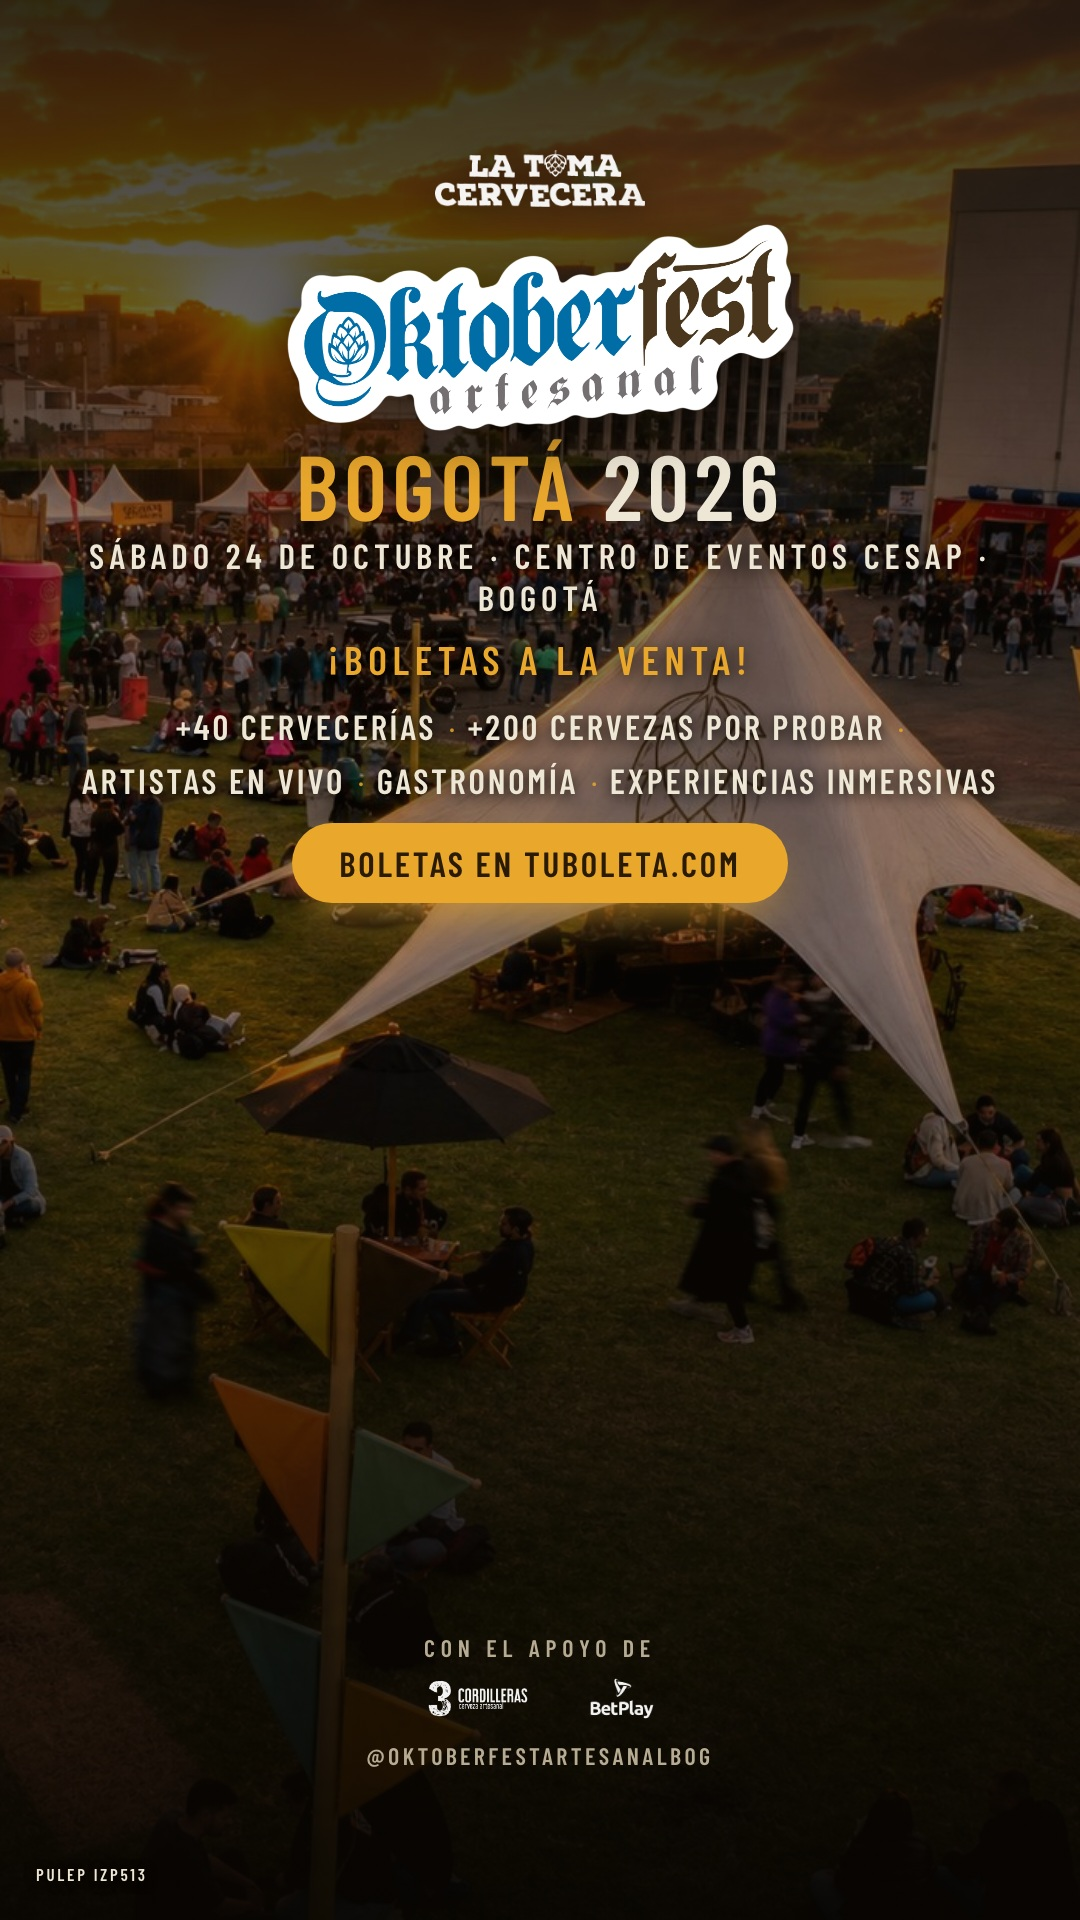
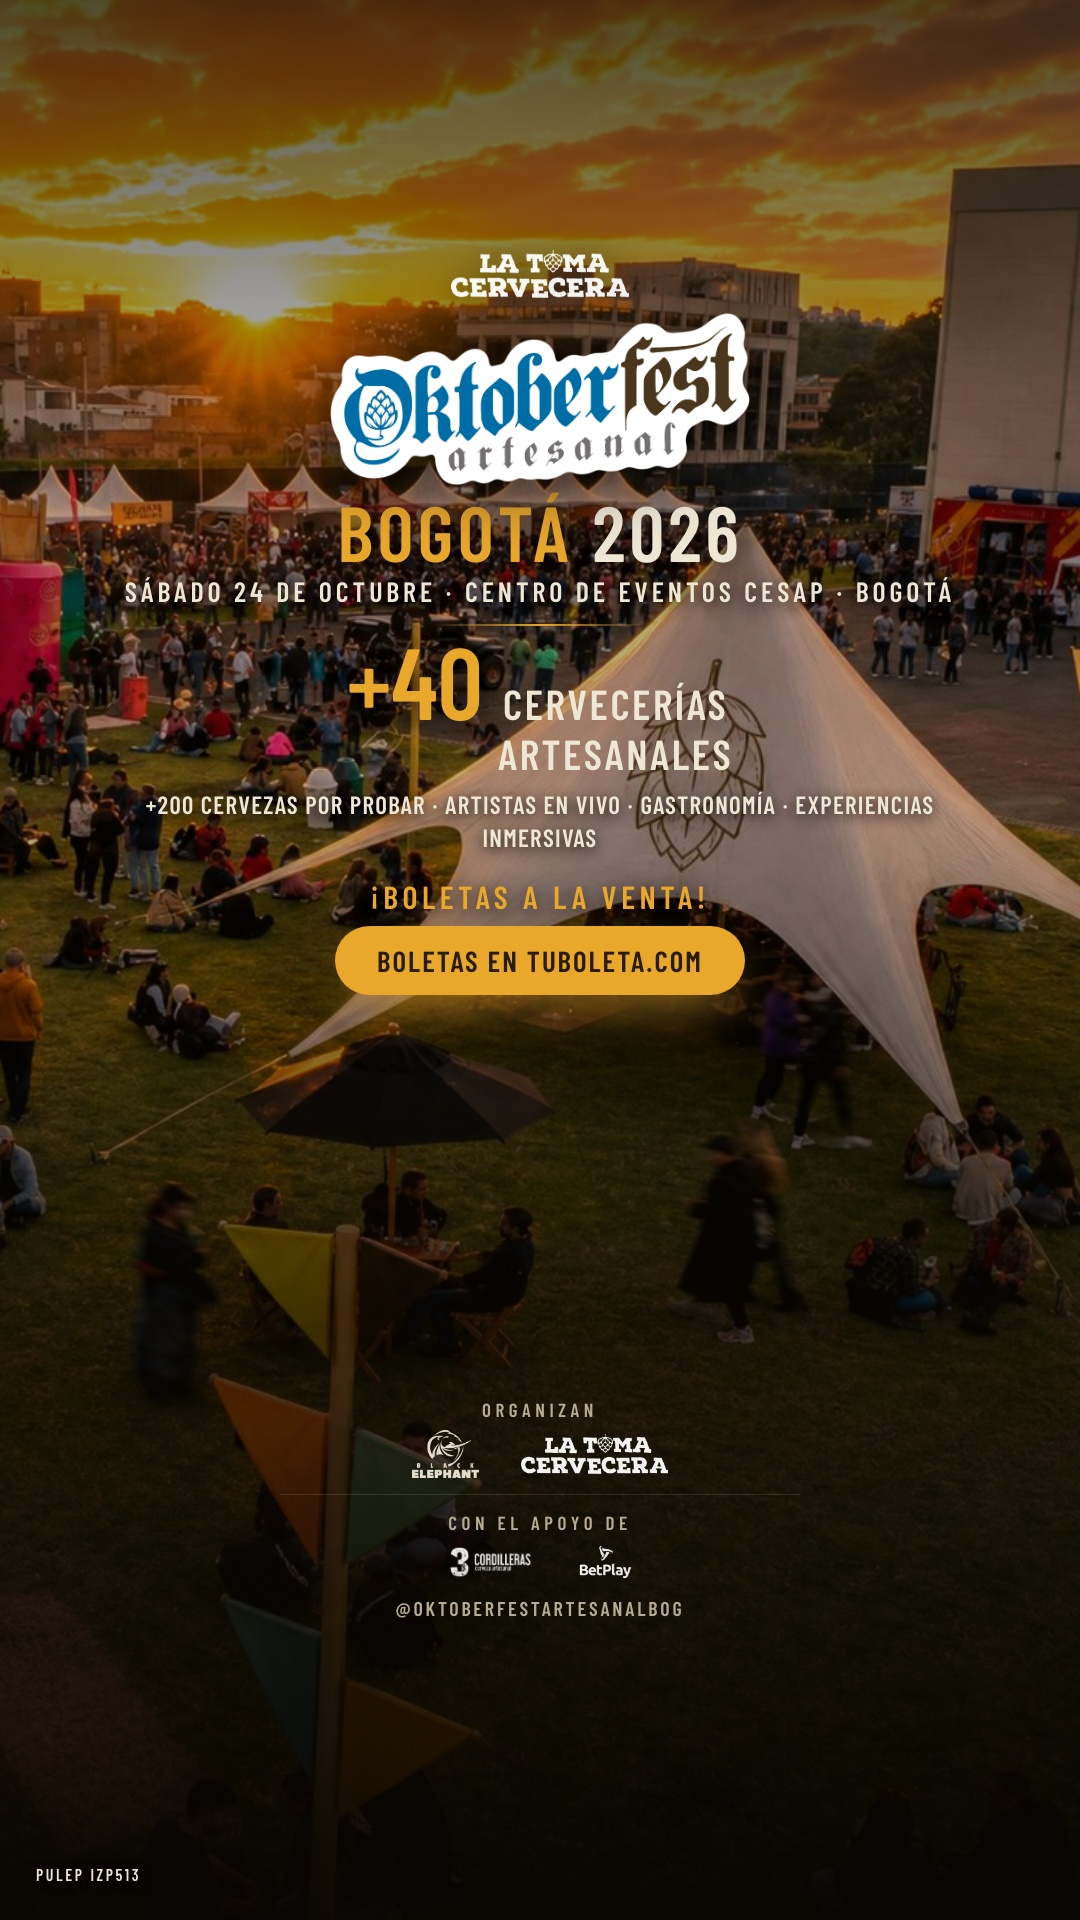
feat: flyers pro — historias con zonas seguras + postal imprimible (2400x3600, 300dpi) con QR de compra

diff --git a/piezas-bogota/build-flyer.py b/piezas-bogota/build-flyer.py
@@ -1,12 +1,13 @@
 #!/usr/bin/env python3
 # -*- coding: utf-8 -*-
 """
-Flyer general Oktoberfest Artesanal — Medellín y Bogotá, en post (1080×1350) e
-historia (1080×1920).
+Flyer general Oktoberfest Artesanal — Medellín y Bogotá · post (1080×1350) e
+historia (1080×1920). Rediseño profesional tras auditoría comercial/mercadeo:
 
-Medellín: line up + venta de boletas (La Tiquetera) + patrocinadores.
-Bogotá:   propuesta de valor + venta de boletas (Tuboleta) + patrocinadores.
-Todo sobre foto real del festival, paleta ocaso y el logo azul.
+  · Dato HERO de cervecerías (+70 Med / +40 Bog) como argumento de venta principal.
+  · Medellín sobre imagen de ATARDECER (hora dorada), no nocturna.
+  · Line up (Medellín) · CTA de boletas claro.
+  · Footer de credibilidad: ORGANIZAN (Black Elephant · La Toma) + patrocinadores.
 """
 import base64, pathlib, subprocess
 from PIL import Image
@@ -14,7 +15,6 @@ from PIL import Image
 ROOT = pathlib.Path(__file__).resolve().parent
 REPO_AS = ROOT / "_assets"
 WORK_AS = ROOT / "_assets"
-FOTOS = pathlib.Path("/Users/juandiegobeuthbernal/design-system/assets/events/oktoberfest-2026/fotos")
 OUT = ROOT / "renders" / "flyer"
 OUT.mkdir(parents=True, exist_ok=True)
 CHROME = "/Applications/Google Chrome.app/Contents/MacOS/Google Chrome"
@@ -27,104 +27,130 @@ def du(p, m):
 
 OKT = du(WORK_AS / "okt-logo-hires.png", "image/png")
 LATOMA = du(WORK_AS / "latoma-blanco-hires.png", "image/png")
+BE = du(WORK_AS / "black-elephant-crema.png", "image/png")
 SP = {n: du(WORK_AS / f"spon-{n}.png", "image/png") for n in ("3cordilleras", "comfenalco", "betplay")}
+QR = {c: du(WORK_AS / f"qr-{c}.png", "image/png") for c in ("medellin", "bogota")}
 
-MED_FEATS = ["+70 Cervecerías", "+350 Cervezas por probar", "4 Escenarios",
-             "Gastronomía", "Artistas en vivo", "Atracciones del parque"]
-BOG_FEATS = ["+40 Cervecerías", "+200 Cervezas por probar", "Artistas en vivo",
-             "Gastronomía", "Experiencias inmersivas"]
 LINEUP = ["Kraken", "Tributo a Caifanes · The Mills · Bajo Tierra",
           "Tributo a Molotov · Nepentes · Manuel Urrego",
           "Terlete · DJ Tobby · + más por confirmar"]
 
 CITIES = {
     "medellin": dict(city="Medellín", date="Sábado 26 de septiembre", place="Parque Norte · Medellín",
-                     platform="latiquetera.com", foto="escenario/F1-231_Oktober-307.jpg", objpos="center 55%",
-                     lineup=True, sponsors=["3cordilleras", "comfenalco", "betplay"], pulep=""),
+                     platform="latiquetera.com", bg=WORK_AS / "medellin-atardecer.jpg", objpos="center 40%",
+                     cerv="+70", sub="+350 cervezas por probar · 4 escenarios · artistas en vivo · gastronomía · atracciones del parque",
+                     lineup=True, sponsors=["3cordilleras", "comfenalco", "betplay"], handle="@oktoberfestartesanal", pulep=""),
     "bogota": dict(city="Bogotá", date="Sábado 24 de octubre", place="Centro de Eventos CESAP · Bogotá",
-                   platform="tuboleta.com", foto=None, objpos="60% center",
-                   lineup=False, sponsors=["3cordilleras", "betplay"], pulep="IZP513"),
+                   platform="tuboleta.com", bg=REPO_AS / "hero-sunset.jpg", objpos="60% center",
+                   cerv="+40", sub="+200 cervezas por probar · artistas en vivo · gastronomía · experiencias inmersivas",
+                   lineup=False, sponsors=["3cordilleras", "betplay"], handle="@oktoberfestartesanalbog", pulep="IZP513"),
 }
-FORMATS = [("post", 1080, 1350), ("historia", 1080, 1920)]
+FORMATS = [("post", 1080, 1350), ("historia", 1080, 1920), ("postal", 1200, 1800)]
 
 
-def page(cfg, fmt, w, h):
+def page(key, cfg, fmt, w, h):
     story = fmt == "historia"
-    s = 1.18 if story else 1.0
-    pt = 150 if story else 66
-    pb = 150 if story else 66
-    gap = round(min(w, h) * 0.022)
-    hero = du(FOTOS / cfg["foto"], "image/jpeg") if cfg["foto"] else du(REPO_AS / "hero-sunset.jpg", "image/jpeg")
-    corner = round(min(w, h) * 0.033)
+    postal = fmt == "postal"
+    s = 1.05 if story else (1.16 if postal else 1.0)
+    # Historia: márgenes grandes arriba/abajo por las zonas seguras de Instagram.
+    pt = 250 if story else (96 if postal else 62)
+    pb = 300 if story else (88 if postal else 60)
+    g = round(min(w, h) * 0.02)
+    hero = du(cfg["bg"], "image/jpeg")
 
     if cfg["lineup"]:
-        head = f'<div class="ln-h">{LINEUP[0]}</div>' + "".join(
-            f'<div class="ln">{x}</div>' for x in LINEUP[1:])
-        middle = f'<div class="lineup"><div class="kick">Line Up</div>{head}</div>'
+        ln = f'<div class="ln-h">{LINEUP[0]}</div>' + "".join(f'<div class="ln">{x}</div>' for x in LINEUP[1:])
+        middle = f'<div class="lineup"><div class="kk">Line Up 2026</div>{ln}</div>'
     else:
-        feats = "<i>·</i>".join(f"<span>{x}</span>" for x in BOG_FEATS)
-        middle = f'<div class="feats">{feats}</div>'
+        middle = ""
 
     spons = "".join(f'<img class="sp" src="{SP[n]}">' for n in cfg["sponsors"])
     pulep = f'<div class="pulep">PULEP {cfg["pulep"]}</div>' if cfg["pulep"] else ""
 
-    return f"""<!doctype html><meta charset="utf-8">
-<title>Flyer {cfg['city']} · {fmt}</title>
+    if postal:
+        cta_inner = (f'<div class="qrbox"><img class="qr" src="{QR[key]}">'
+                     f'<div class="qrt">Escanea<br>y compra tus<br>boletas aquí</div></div>'
+                     f'<div class="qrsub">{cfg["platform"]}</div>')
+    else:
+        cta_inner = f'<div class="pill"><span>Boletas en {cfg["platform"]}</span></div>'
+
+    return f"""<!doctype html><meta charset="utf-8"><title>Flyer {cfg['city']} · {fmt}</title>
 <style>
 @import url('https://fonts.googleapis.com/css2?family=Playfair+Display:wght@800&display=swap');
 {FONTS_CSS}
 *{{margin:0;box-sizing:border-box}} html,body{{background:#000}}
 body{{font-family:'Barlow',sans-serif;-webkit-font-smoothing:antialiased}} img{{display:block}}
+.bc{{font-family:'Barlow Condensed',sans-serif}}
 .stage{{position:relative;width:{w}px;height:{h}px;overflow:hidden;background:#14110B;color:#EEE7D6}}
 .photo{{position:absolute;inset:0}}
-.photo img{{width:100%;height:100%;object-fit:cover;object-position:{cfg['objpos']};filter:saturate(1.08) contrast(1.03) brightness(1.06)}}
-.veil{{position:absolute;inset:0;background:linear-gradient(180deg,rgba(14,10,6,.86) 0%,rgba(14,10,6,.5) 26%,
-  rgba(14,10,6,.42) 50%,rgba(10,6,2,.78) 76%,rgba(8,5,2,.95) 100%)}}
-.in{{position:absolute;inset:0;z-index:3;display:flex;flex-direction:column;align-items:center;text-align:center;padding:{pt}px 70px {pb}px}}
-.sello{{height:{round(48*s)}px;opacity:.95;filter:drop-shadow(0 5px 18px rgba(0,0,0,.6))}}
-.brand{{width:{round(430*s)}px;max-width:88%;margin-top:{round(gap*.7)}px;filter:drop-shadow(0 12px 30px rgba(0,0,0,.5))}}
-.city{{margin-top:{round(gap*.5)}px;font-family:'Barlow Condensed';font-weight:700;font-size:{round(78*s)}px;line-height:.9;
-  letter-spacing:.06em;text-transform:uppercase;color:#E9A72C;text-shadow:0 6px 30px rgba(0,0,0,.6)}}
+.photo img{{width:100%;height:100%;object-fit:cover;object-position:{cfg['objpos']};filter:saturate(1.1) contrast(1.03) brightness(1.05)}}
+.veil{{position:absolute;inset:0;background:
+  linear-gradient(180deg,rgba(12,9,5,.72) 0%,rgba(12,9,5,.32) 20%,rgba(12,9,5,.28) 42%,rgba(10,6,2,.72) 70%,rgba(8,5,2,.96) 100%)}}
+.in{{position:absolute;inset:0;z-index:3;display:flex;flex-direction:column;align-items:center;text-align:center;padding:{pt}px 66px {pb}px}}
+.sello{{height:{round(46*s)}px;opacity:.95;filter:drop-shadow(0 5px 18px rgba(0,0,0,.6))}}
+.brand{{width:{round(400*s)}px;max-width:86%;margin-top:{round(g*.7)}px;filter:drop-shadow(0 12px 30px rgba(0,0,0,.5))}}
+.city{{margin-top:{round(g*.5)}px;font-family:'Barlow Condensed';font-weight:700;font-size:{round(74*s)}px;line-height:.9;
+  letter-spacing:.05em;text-transform:uppercase;color:#E9A72C;text-shadow:0 6px 30px rgba(0,0,0,.6)}}
 .city span{{color:#EEE7D6}}
-.dp{{margin-top:{round(gap*.35)}px;font-family:'Barlow Condensed';font-weight:600;font-size:{round(30*s)}px;letter-spacing:.14em;
+.dp{{margin-top:{round(g*.35)}px;font-family:'Barlow Condensed';font-weight:600;font-size:{round(27*s)}px;letter-spacing:.14em;
   text-transform:uppercase;color:#EEE7D6;text-shadow:0 3px 16px rgba(0,0,0,.9)}}
-.kickv{{margin-top:{round(gap*.7)}px;font-family:'Barlow Condensed';font-weight:700;font-size:{round(34*s)}px;letter-spacing:.14em;
-  text-transform:uppercase;color:#E9A72C;text-shadow:0 3px 18px rgba(0,0,0,.85)}}
-.mid{{display:flex;flex-direction:column;align-items:center;margin:{round(gap*.9)}px 0}}
-.lineup{{display:flex;flex-direction:column;align-items:center}}
-.kick{{font-family:'Barlow Condensed';font-weight:600;font-size:{round(22*s)}px;letter-spacing:.3em;text-transform:uppercase;color:#E9A72C;margin-bottom:{round(gap*.4)}px}}
-.ln-h{{font-family:'Playfair Display',serif;font-weight:800;font-size:{round(70*s)}px;line-height:.95;text-transform:uppercase;color:#EEE7D6;text-shadow:0 5px 24px rgba(0,0,0,.8)}}
-.ln{{font-family:'Barlow Condensed';font-weight:700;font-size:{round(30*s)}px;line-height:1.28;text-transform:uppercase;color:#EEE7D6;
-  text-shadow:0 3px 14px rgba(0,0,0,.85);max-width:{round(w*.9)}px}}
-.feats{{display:flex;flex-wrap:wrap;align-items:center;justify-content:center;gap:{round(gap*.5)}px;max-width:{round(w*.86)}px}}
-.feats span{{font-family:'Barlow Condensed';font-weight:600;font-size:{round(30*s)}px;letter-spacing:.08em;text-transform:uppercase;color:#EEE7D6;white-space:nowrap;text-shadow:0 3px 14px rgba(0,0,0,.85)}}
-.feats i{{color:#E9A72C;font-style:normal;font-size:{round(30*s)}px;opacity:.85}}
-.pill{{display:inline-flex;align-items:center;background:#E9A72C;color:#2A1B06;border-radius:999px;
-  padding:{round(16*s)}px {round(40*s)}px;box-shadow:0 20px 50px -18px rgba(233,167,44,.95)}}
-.pill span{{font-family:'Barlow Condensed';font-weight:700;font-size:{round(30*s)}px;letter-spacing:.08em;text-transform:uppercase;white-space:nowrap}}
-.foot{{margin-top:auto;display:flex;flex-direction:column;align-items:center;width:100%}}
-.spon-h{{font-family:'Barlow Condensed';font-weight:600;font-size:{round(20*s)}px;letter-spacing:.24em;text-transform:uppercase;color:#B7AC93;margin-bottom:{round(gap*.55)}px}}
-.spons{{display:flex;align-items:center;justify-content:center;gap:{round(46*s)}px;flex-wrap:wrap}}
-.sp{{height:{round(40*s)}px;width:auto;opacity:.95}}
-.handle{{margin-top:{round(gap*.8)}px;font-family:'Barlow Condensed';font-weight:600;font-size:{round(20*s)}px;letter-spacing:.14em;text-transform:uppercase;color:#B7AC93}}
-.pulep{{position:absolute;left:{corner}px;bottom:{corner}px;z-index:4;font-family:'Barlow Condensed';font-weight:600;
-  font-size:{max(12,round(min(w,h)*0.016))}px;letter-spacing:.16em;text-transform:uppercase;color:#EEE7D6;text-shadow:0 2px 12px rgba(0,0,0,.9)}}
+.rule{{width:{round(200*s)}px;height:2px;background:linear-gradient(90deg,transparent,#E9A72C,transparent);margin:{round(g*.75)}px 0 {round(g*.5)}px}}
+/* Dato HERO de cervecerías */
+.stat{{display:flex;align-items:baseline;justify-content:center;gap:{round(14*s)}px}}
+.stat b{{font-family:'Barlow Condensed';font-weight:700;font-size:{round(96*s)}px;line-height:.85;color:#E9A72C;text-shadow:0 6px 30px rgba(0,0,0,.6)}}
+.stat u{{text-decoration:none;font-family:'Barlow Condensed';font-weight:700;font-size:{round(40*s)}px;letter-spacing:.06em;
+  text-transform:uppercase;color:#EEE7D6}}
+.sub{{margin-top:{round(g*.45)}px;font-family:'Barlow Condensed';font-weight:600;font-size:{round(24*s)}px;letter-spacing:.05em;
+  text-transform:uppercase;color:#EEE7D6;max-width:{round(w*.82)}px;line-height:1.35;text-shadow:0 3px 14px rgba(0,0,0,.9)}}
+/* Line up */
+.lineup{{margin-top:{round(g*.9)}px;display:flex;flex-direction:column;align-items:center}}
+.kk{{font-family:'Barlow Condensed';font-weight:600;font-size:{round(22*s)}px;letter-spacing:.3em;text-transform:uppercase;color:#E9A72C;margin-bottom:{round(g*.35)}px}}
+.ln-h{{font-family:'Playfair Display',serif;font-weight:800;font-size:{round(58*s)}px;line-height:.95;text-transform:uppercase;color:#EEE7D6;text-shadow:0 5px 24px rgba(0,0,0,.85)}}
+.ln{{font-family:'Barlow Condensed';font-weight:700;font-size:{round(27*s)}px;line-height:1.26;text-transform:uppercase;color:#EEE7D6;text-shadow:0 3px 14px rgba(0,0,0,.9);max-width:{round(w*.9)}px}}
+/* CTA */
+.cta{{margin-top:{round(g*1.0)}px;display:flex;flex-direction:column;align-items:center;gap:{round(g*.5)}px}}
+.cta .k{{font-family:'Barlow Condensed';font-weight:700;font-size:{round(30*s)}px;letter-spacing:.14em;text-transform:uppercase;color:#E9A72C;text-shadow:0 3px 18px rgba(0,0,0,.85)}}
+.pill{{display:inline-flex;align-items:center;background:#E9A72C;color:#2A1B06;border-radius:999px;padding:{round(16*s)}px {round(40*s)}px;
+  box-shadow:0 20px 50px -18px rgba(233,167,44,.95)}}
+.pill span{{font-family:'Barlow Condensed';font-weight:700;font-size:{round(28*s)}px;letter-spacing:.07em;text-transform:uppercase;white-space:nowrap}}
+.qrbox{{display:flex;align-items:center;gap:{round(20*s)}px;background:#EEE7D6;border-radius:{round(18*s)}px;padding:{round(16*s)}px {round(24*s)}px;box-shadow:0 18px 46px -18px rgba(0,0,0,.7)}}
+.qr{{width:{round(148*s)}px;height:{round(148*s)}px;border-radius:8px;display:block}}
+.qrt{{font-family:'Barlow Condensed';font-weight:700;font-size:{round(27*s)}px;line-height:1.06;letter-spacing:.02em;text-transform:uppercase;color:#2A1B06;text-align:left}}
+.qrsub{{margin-top:{round(g*.4)}px;font-family:'Barlow Condensed';font-weight:700;font-size:{round(23*s)}px;letter-spacing:.08em;text-transform:uppercase;color:#E9A72C}}
+/* Footer credibilidad */
+.foot{{margin-top:auto;display:flex;flex-direction:column;align-items:center;width:100%;padding-top:{round(g*.8)}px}}
+.grp{{display:flex;flex-direction:column;align-items:center}}
+.lbl{{font-family:'Barlow Condensed';font-weight:600;font-size:{round(18*s)}px;letter-spacing:.24em;text-transform:uppercase;color:#B7AC93;margin-bottom:{round(g*.4)}px}}
+.logos{{display:flex;align-items:center;justify-content:center;gap:{round(40*s)}px;flex-wrap:wrap}}
+.org{{height:{round(46*s)}px;width:auto;opacity:.95}} .lt{{height:{round(38*s)}px;width:auto;opacity:.95}}
+.sp{{height:{round(36*s)}px;width:auto;opacity:.92}}
+.sep{{width:70%;max-width:520px;height:1px;background:rgba(255,255,255,.12);margin:{round(g*.75)}px 0}}
+.handle{{margin-top:{round(g*.7)}px;font-family:'Barlow Condensed';font-weight:600;font-size:{round(19*s)}px;letter-spacing:.14em;text-transform:uppercase;color:#B7AC93}}
+.pulep{{position:absolute;left:{round(min(w,h)*0.033)}px;bottom:{round(min(w,h)*0.033)}px;z-index:4;font-family:'Barlow Condensed';
+  font-weight:600;font-size:{max(12,round(min(w,h)*0.015))}px;letter-spacing:.16em;text-transform:uppercase;color:#EEE7D6;text-shadow:0 2px 12px rgba(0,0,0,.9)}}
 </style>
 <div class="stage">
-  <div class="photo"><img src="{hero}" alt=""></div>
-  <div class="veil"></div>
+  <div class="photo"><img src="{hero}" alt=""></div><div class="veil"></div>
   <div class="in">
     <img class="sello" src="{LATOMA}">
     <img class="brand" src="{OKT}">
     <div class="city">{cfg['city'].split()[0]} <span>2026</span></div>
     <div class="dp">{cfg['date']} · {cfg['place']}</div>
-    <div class="kickv">¡Boletas a la venta!</div>
-    <div class="mid">{middle}</div>
-    <div class="pill"><span>Boletas en {cfg['platform']}</span></div>
+    <div class="rule"></div>
+    <div class="stat"><b>{cfg['cerv']}</b><u>Cervecerías<br>artesanales</u></div>
+    <div class="sub">{cfg['sub']}</div>
+    {middle}
+    <div class="cta">
+      <div class="k">¡Boletas a la venta!</div>
+      {cta_inner}
+    </div>
     <div class="foot">
-      <div class="spon-h">Con el apoyo de</div>
-      <div class="spons">{spons}</div>
-      <div class="handle">@oktoberfestartesanal{'bog' if cfg['city']=='Bogotá' else ''}</div>
+      <div class="grp"><div class="lbl">Organizan</div>
+        <div class="logos"><img class="org" src="{BE}"><img class="lt" src="{LATOMA}"></div></div>
+      <div class="sep"></div>
+      <div class="grp"><div class="lbl">Con el apoyo de</div>
+        <div class="logos">{spons}</div></div>
+      <div class="handle">{cfg['handle']}</div>
     </div>
   </div>
   {pulep}
@@ -135,20 +161,22 @@ def main():
     build = OUT / ".build"; build.mkdir(exist_ok=True)
     for key, cfg in CITIES.items():
         for fmt, w, h in FORMATS:
-            src = build / f"{key}-{fmt}.html"; png = build / f"{key}-{fmt}.png"
-            jpg = OUT / f"flyer-{key}-{fmt}.jpg"
-            src.write_text(page(cfg, fmt, w, h), encoding="utf-8")
+            postal = fmt == "postal"
+            scale = 2 if postal else 1            # postal: doble resolución para impresión
+            dpi = 300 if postal else 72
+            cap = 3000 if postal else 500         # KB
+            src = build / f"{key}-{fmt}.html"; png = build / f"{key}-{fmt}.png"; jpg = OUT / f"flyer-{key}-{fmt}.jpg"
+            src.write_text(page(key, cfg, fmt, w, h), encoding="utf-8")
             subprocess.run([CHROME, "--headless=new", "--no-sandbox", "--disable-gpu", "--hide-scrollbars",
-                            "--force-device-scale-factor=1", f"--window-size={w},{h}",
-                            "--virtual-time-budget=8000", f"--screenshot={png}", src.as_uri()],
-                           check=True, capture_output=True)
+                            f"--force-device-scale-factor={scale}", f"--window-size={w},{h}",
+                            "--virtual-time-budget=8000", f"--screenshot={png}", src.as_uri()], check=True, capture_output=True)
             im = Image.open(png).convert("RGB")
-            assert im.size == (w, h), f"{key}-{fmt}: {im.size}"
-            for q in range(94, 60, -3):
-                im.save(jpg, "JPEG", quality=q, optimize=True, progressive=True, dpi=(72, 72))
-                if jpg.stat().st_size <= 500 * 1000:
+            assert im.size == (w * scale, h * scale), f"{key}-{fmt}: {im.size}"
+            for q in range(95, 60, -3):
+                im.save(jpg, "JPEG", quality=q, optimize=True, progressive=True, dpi=(dpi, dpi))
+                if jpg.stat().st_size <= cap * 1000:
                     break
-            print(f"flyer-{key}-{fmt}  {w}x{h}  {jpg.stat().st_size/1000:.0f} KB")
+            print(f"flyer-{key}-{fmt}  {im.size[0]}x{im.size[1]}  {dpi}dpi  {jpg.stat().st_size/1000:.0f} KB")
 
 
 if __name__ == "__main__":
